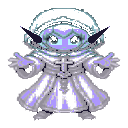
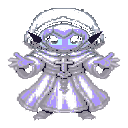
Stop Night Elf healer LOOK from painting the circlet as a glowing crown.
Silver hair and smaller ears so the purple face reads on New Game.

diff --git a/tool/paint_race_bodies.py b/tool/paint_race_bodies.py
@@ -39,7 +39,7 @@ SKIN_M = (104, 96, 176)
 SKIN_F = (128, 112, 188)
 SKIN_SHADOW = (52, 44, 110)
 HAIR_M = (40, 56, 92)
-HAIR_F = (156, 204, 214)
+HAIR_F = (186, 196, 214)
 EYE = (188, 244, 255)
 INK = (28, 22, 48)
 # Simple cloth — not plate / not an ornate robe.
@@ -170,9 +170,9 @@ def paint_ears(
 ) -> set[tuple[int, int]]:
     """Pointed chibi ears, attached at the hair silhouette. Original pixels."""
     painted: set[tuple[int, int]] = set()
-    length = 18 if female else 14
-    width = 3.6 if female else 4.6
-    lift = 13 if female else 10
+    length = 11 if female else 14
+    width = 3.2 if female else 4.6
+    lift = 8 if female else 10
     ear_y = int(fy - 1)
     left_edge = int(fx - face_half)
     right_edge = int(fx + face_half)
@@ -237,7 +237,10 @@ def paint_nightelf(family: str, anim: str, *, female: bool) -> tuple[Image.Image
     hat_fill = hair_t
     rx_hat = face_half * 1.12
     for x, y in tags["hat"]:
-        # Drop the circlet/hood ring so gear helms sit on hair, not a crown.
+        # Healer circlet is helm, not a glowing hair crown.
+        if family == "healer":
+            continue
+        # Drop the hood ring so gear helms sit on hair, not a crown.
         if y < fy - face_half * 0.72:
             continue
         if dist2(x, y, fx, fy) > (rx_hat * 1.35) ** 2:
